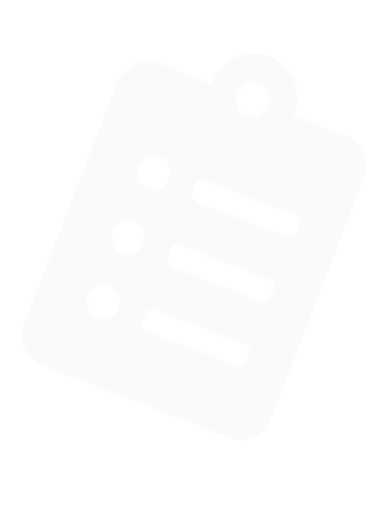
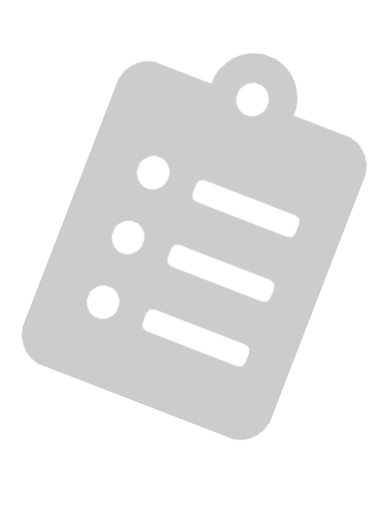
style done

diff --git a/src/index.css b/src/index.css
@@ -8,18 +8,19 @@ body {
 }
 
 .banner{
-  background: #F8F9FA url(components/business/AppStyling/clipboard.png) no-repeat fixed 50% 50%;
+  background: url(components/business/AppStyling/clipboard.png) no-repeat fixed 50% 50%;
 }
+
 .nav-panel{
   color: #ffffff;
 }
 
 .nazwaKlasy{
-  background-image: url(components/business/AppStyling/curls.png);
+  background-image: url(components/business/AppStyling/F8F9FA.png);
 }
 
 .nazwaKlasy2{
-  background-image: url(components/business/AppStyling/dust_scratches.png);
+  background-image: url(components/business/AppStyling/what-the-hex.png);
 }
 
 .add-task{

diff --git a/src/components/business/TaskList/TaskList.js b/src/components/business/TaskList/TaskList.js
@@ -91,7 +91,7 @@ class TaskList extends Component {
                             }
                           </ul>
                         : //show banner
-                        <div className='banner'> </div>
+                        <div className='banner'></div>
                     }
                   </div>
                   : <div className='banner'>
